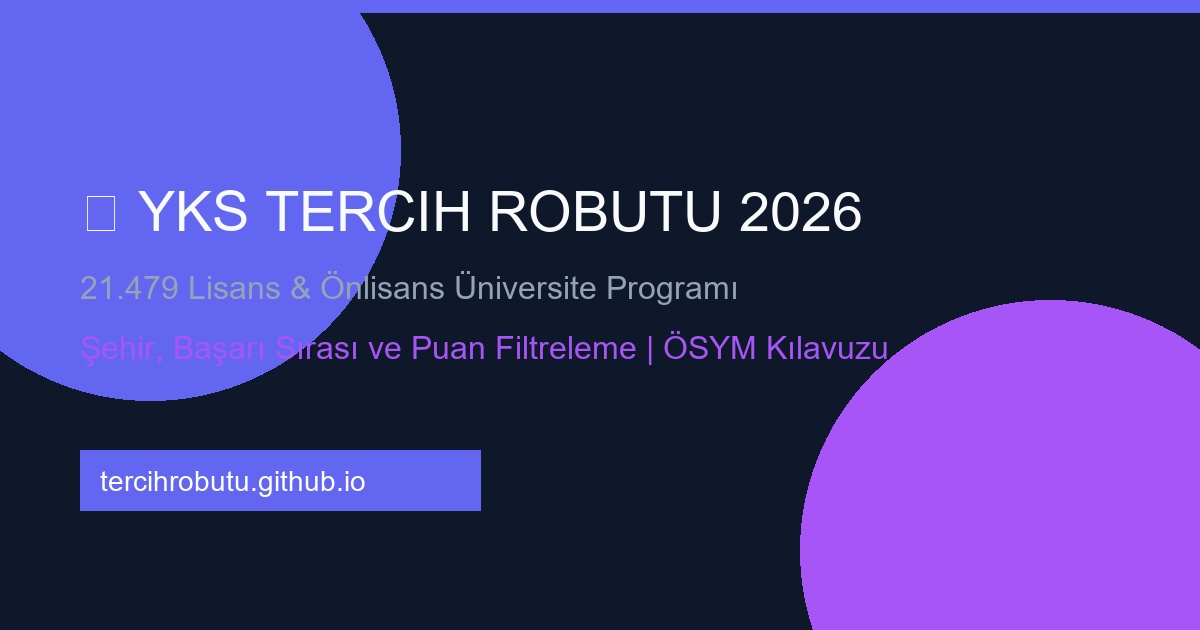
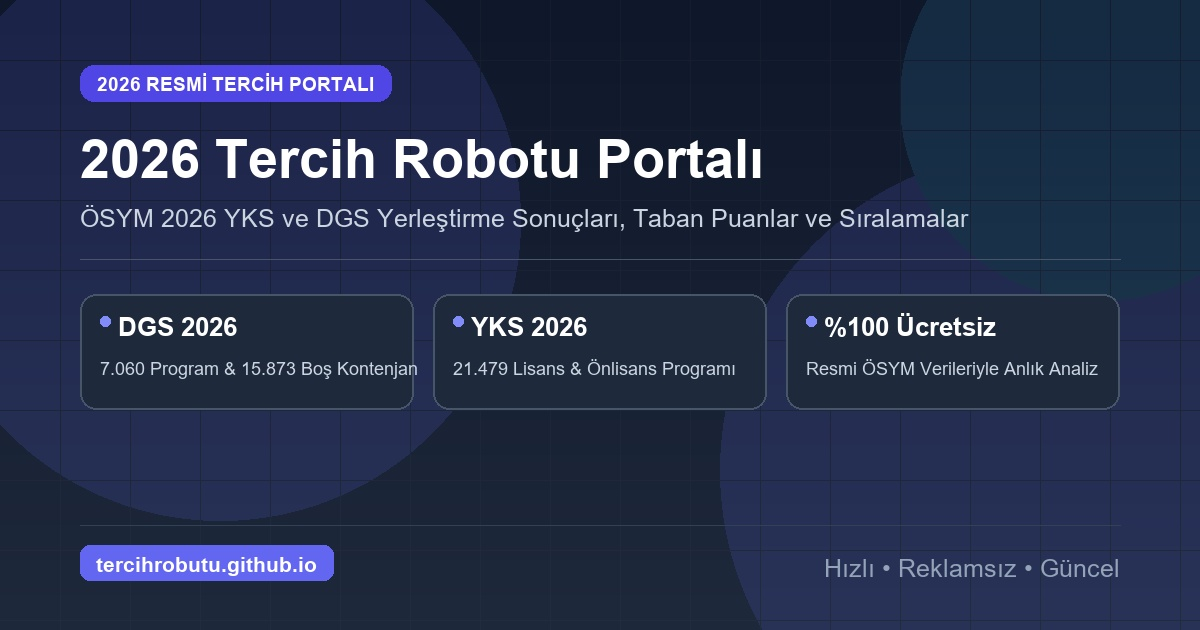
feat: Add dedicated high-res social preview cards for Portal, DGS, and YKS (og:image & twitter:image)

diff --git a/dgs.html b/dgs.html
@@ -34,7 +34,7 @@
   <meta property="og:url" content="https://tercihrobutu.github.io/dgs.html">
   <meta property="og:title" content="2026 DGS Tercih Robotu | ÖSYM Taban Puanları ve Kontenjan Değişimleri">
   <meta property="og:description" content="Ön Lisans mezuniyet alanınıza göre geçiş yapabileceğiniz tüm DGS Lisans programlarını, 2024-2025 taban puanlarını ve kontenjan değişim grafiklerini anında inceleyin.">
-  <meta property="og:image" content="https://tercihrobutu.github.io/og-image.jpg">
+  <meta property="og:image" content="https://tercihrobutu.github.io/og-image-dgs.jpg">
   <meta property="og:image:width" content="1200">
   <meta property="og:image:height" content="630">
   <meta property="og:locale" content="tr_TR">
@@ -44,7 +44,7 @@
   <meta name="twitter:url" content="https://tercihrobutu.github.io/dgs.html">
   <meta name="twitter:title" content="2026 DGS Tercih Robotu | ÖSYM DGS Kılavuzu & Trend Grafiği">
   <meta name="twitter:description" content="7.060 DGS lisans programı, 2024-2025 taban puanları ve kontenjan değişim grafikleri.">
-  <meta name="twitter:image" content="https://tercihrobutu.github.io/og-image.jpg">
+  <meta name="twitter:image" content="https://tercihrobutu.github.io/og-image-dgs.jpg">
 
   <!-- Google Fonts -->
   <link rel="preconnect" href="https://fonts.googleapis.com">

diff --git a/yks.html b/yks.html
@@ -34,7 +34,7 @@
   <meta property="og:url" content="https://tercihrobutu.github.io/yks.html">
   <meta property="og:title" content="2026 YKS Tercih Robotu | ÖSYM Taban Puanları ve Başarı Sıralamaları">
   <meta property="og:description" content="21.479 Lisans ve Ön Lisans programı arasında şehir, başarı sırası ve puan filtresi ile üniversite tercih listenizi anında hazırlayın.">
-  <meta property="og:image" content="https://tercihrobutu.github.io/og-image.jpg">
+  <meta property="og:image" content="https://tercihrobutu.github.io/og-image-yks.jpg">
   <meta property="og:image:width" content="1200">
   <meta property="og:image:height" content="630">
   <meta property="og:locale" content="tr_TR">
@@ -44,7 +44,7 @@
   <meta name="twitter:url" content="https://tercihrobutu.github.io/yks.html">
   <meta name="twitter:title" content="2026 YKS Tercih Robotu | ÖSYM Taban Puanları">
   <meta name="twitter:description" content="21.479 Lisans ve Ön Lisans üniversite programı. Şehir ve başarı sırasına göre filtrele, tercih listeni indir.">
-  <meta name="twitter:image" content="https://tercihrobutu.github.io/og-image.jpg">
+  <meta name="twitter:image" content="https://tercihrobutu.github.io/og-image-yks.jpg">
 
   <!-- Google Fonts -->
   <link rel="preconnect" href="https://fonts.googleapis.com">

diff --git a/scripts/generate_og_images.py b/scripts/generate_og_images.py
@@ -1,0 +1,217 @@
+import os
+from PIL import Image, ImageDraw, ImageFont
+
+def create_og_image(
+    filename,
+    badge_text,
+    badge_color,
+    title_text,
+    subtitle_text,
+    metrics,
+    footer_tagline,
+    theme="portal"
+):
+    W, H = 1200, 630
+    
+    # Color palette
+    if theme == "portal":
+        bg_top = (15, 23, 42)          # Slate 900
+        bg_bottom = (30, 41, 59)       # Slate 800
+        glow_primary = (99, 102, 241, 40)   # Indigo
+        glow_secondary = (56, 189, 248, 30) # Sky blue
+        accent_color = (99, 102, 241)       # Indigo 500
+        card_bg = (30, 41, 59)
+        card_border = (71, 85, 105)
+        tag_color = (129, 140, 248)
+    elif theme == "dgs":
+        bg_top = (20, 14, 40)          # Deep purple-black
+        bg_bottom = (42, 22, 75)       # Rich royal purple
+        glow_primary = (168, 85, 247, 45)   # Purple
+        glow_secondary = (236, 72, 153, 30) # Pink
+        accent_color = (168, 85, 247)       # Purple 500
+        card_bg = (43, 24, 80)
+        card_border = (126, 75, 185)
+        tag_color = (216, 180, 254)
+    else: # yks
+        bg_top = (10, 25, 47)          # Deep Navy
+        bg_bottom = (15, 45, 85)       # Oceanic Blue
+        glow_primary = (59, 130, 246, 45)   # Blue
+        glow_secondary = (45, 212, 191, 30) # Teal
+        accent_color = (37, 99, 235)        # Blue 600
+        card_bg = (22, 50, 92)
+        card_border = (59, 130, 246)
+        tag_color = (147, 197, 253)
+
+    # 1. Base Image & Gradient
+    img = Image.new("RGB", (W, H), bg_top)
+    draw = ImageDraw.Draw(img)
+
+    for y in range(H):
+        ratio = y / H
+        r = int(bg_top[0] + (bg_bottom[0] - bg_top[0]) * ratio)
+        g = int(bg_top[1] + (bg_bottom[1] - bg_top[1]) * ratio)
+        b = int(bg_top[2] + (bg_bottom[2] - bg_top[2]) * ratio)
+        draw.line([(0, y), (W, y)], fill=(r, g, b))
+
+    # 2. Glowing atmospheric effects
+    overlay = Image.new("RGBA", (W, H), (0, 0, 0, 0))
+    ov_draw = ImageDraw.Draw(overlay)
+
+    ov_draw.ellipse([(-80, -80), (520, 520)], fill=glow_primary)
+    ov_draw.ellipse([(W - 480, H - 480), (W + 160, H + 160)], fill=glow_primary)
+    ov_draw.ellipse([(W - 300, -100), (W + 100, 300)], fill=glow_secondary)
+
+    # Grid texture
+    grid_color = (255, 255, 255, 5)
+    for x in range(60, W, 70):
+        ov_draw.line([(x, 0), (x, H)], fill=grid_color, width=1)
+    for y in range(60, H, 70):
+        ov_draw.line([(0, y), (W, y)], fill=grid_color, width=1)
+
+    img = Image.alpha_composite(img.convert("RGBA"), overlay).convert("RGB")
+    draw = ImageDraw.Draw(img)
+
+    # Fonts (Using Arial Bold for bulletproof Turkish character rendering)
+    font_bold_path = "C:/Windows/Fonts/arialbd.ttf"
+    font_reg_path = "C:/Windows/Fonts/arial.ttf"
+
+    title_font = ImageFont.truetype(font_bold_path, 54)
+    subtitle_font = ImageFont.truetype(font_reg_path, 25)
+    badge_font = ImageFont.truetype(font_bold_path, 19)
+    metric_val_font = ImageFont.truetype(font_bold_path, 26)
+    metric_lbl_font = ImageFont.truetype(font_reg_path, 18)
+    footer_font = ImageFont.truetype(font_bold_path, 21)
+
+    margin_left = 80
+    cursor_y = 65
+
+    # 3. Badge Pill
+    badge_bbox = badge_font.getbbox(badge_text)
+    bw = badge_bbox[2] - badge_bbox[0] + 34
+    bh = badge_bbox[3] - badge_bbox[1] + 18
+    draw.rounded_rectangle(
+        [margin_left, cursor_y, margin_left + bw, cursor_y + bh],
+        radius=14,
+        fill=badge_color
+    )
+    draw.text(
+        (margin_left + 17, cursor_y + 8),
+        badge_text,
+        font=badge_font,
+        fill=(255, 255, 255)
+    )
+
+    cursor_y += bh + 28
+
+    # 4. Main Title
+    draw.text((margin_left, cursor_y), title_text, font=title_font, fill=(255, 255, 255))
+    cursor_y += 75
+
+    # 5. Subtitle
+    draw.text((margin_left, cursor_y), subtitle_text, font=subtitle_font, fill=(203, 213, 225))
+    cursor_y += 55
+
+    # 6. Horizontal separator
+    draw.line([(margin_left, cursor_y), (W - margin_left, cursor_y)], fill=(71, 85, 105), width=1)
+    cursor_y += 35
+
+    # 7. Metrics Cards (Horizontal row)
+    card_width = (W - 2 * margin_left - (len(metrics) - 1) * 20) // len(metrics)
+    card_height = 115
+
+    for i, (m_val, m_lbl) in enumerate(metrics):
+        cx = margin_left + i * (card_width + 20)
+        cy = cursor_y
+
+        # Main rounded card
+        draw.rounded_rectangle(
+            [cx, cy, cx + card_width, cy + card_height],
+            radius=16,
+            fill=card_bg,
+            outline=card_border,
+            width=2
+        )
+
+        # Subtle colored indicator dot
+        draw.ellipse([cx + 20, cy + 22, cx + 30, cy + 32], fill=tag_color)
+
+        # Metric Value
+        draw.text((cx + 38, cy + 18), m_val, font=metric_val_font, fill=(255, 255, 255))
+        # Metric Label
+        draw.text((cx + 20, cy + 64), m_lbl, font=metric_lbl_font, fill=(203, 213, 225))
+
+    # 8. Bottom Bar
+    footer_y = H - 85
+    draw.line([(margin_left, footer_y - 20), (W - margin_left, footer_y - 20)], fill=(51, 65, 85), width=1)
+
+    # Domain pill button
+    domain_text = "tercihrobutu.github.io"
+    d_bbox = footer_font.getbbox(domain_text)
+    dw = d_bbox[2] - d_bbox[0] + 32
+    dh = d_bbox[3] - d_bbox[1] + 16
+
+    draw.rounded_rectangle(
+        [margin_left, footer_y, margin_left + dw, footer_y + dh],
+        radius=10,
+        fill=accent_color
+    )
+    draw.text((margin_left + 16, footer_y + 7), domain_text, font=footer_font, fill=(255, 255, 255))
+
+    # Right footer text
+    rf_bbox = subtitle_font.getbbox(footer_tagline)
+    rf_w = rf_bbox[2] - rf_bbox[0]
+    draw.text((W - margin_left - rf_w, footer_y + 9), footer_tagline, font=subtitle_font, fill=(148, 163, 184))
+
+    # Save
+    output_path = os.path.join(r"C:\Users\yakupcontarli\Documents\GitHub\tercihrobutu.github.io", filename)
+    img.save(output_path, "JPEG", quality=95, optimize=True)
+    print(f"Successfully generated: {output_path}")
+
+if __name__ == "__main__":
+    # 1. Genel Portal (index.html) -> og-image.jpg
+    create_og_image(
+        filename="og-image.jpg",
+        badge_text="2026 RESMİ TERCİH PORTALI",
+        badge_color=(79, 70, 229), # Indigo 600
+        title_text="2026 Tercih Robotu Portalı",
+        subtitle_text="ÖSYM 2026 YKS ve DGS Yerleştirme Sonuçları, Taban Puanlar ve Sıralamalar",
+        metrics=[
+            ("DGS 2026", "7.060 Program & 15.873 Boş Kontenjan"),
+            ("YKS 2026", "21.479 Lisans & Önlisans Programı"),
+            ("%100 Ücretsiz", "Resmi ÖSYM Verileriyle Anlık Analiz"),
+        ],
+        footer_tagline="Hızlı • Reklamsız • Güncel",
+        theme="portal"
+    )
+
+    # 2. DGS Robotu (dgs.html) -> og-image-dgs.jpg
+    create_og_image(
+        filename="og-image-dgs.jpg",
+        badge_text="2026 DGS YERLEŞTİRME SONUÇLARI",
+        badge_color=(147, 51, 234), # Purple 600
+        title_text="2026 DGS Tercih Robotu",
+        subtitle_text="Resmi Yerleştirme Taban Puanları, Boş Kontenjanlar ve Önlisans Geçiş Tablosu",
+        metrics=[
+            ("7.060 Program", "Tüm Üniversiteler & Bölümler"),
+            ("15.873 Boş Kontenjan", "Ek Tercih Öncesi Güncel Durum"),
+            ("856 Bölüm Eşleşmesi", "Tablo-2 Lisans Geçiş Alanları"),
+        ],
+        footer_tagline="Sayısal • Eşit Ağırlık • Sözel",
+        theme="dgs"
+    )
+
+    # 3. YKS Robotu (yks.html) -> og-image-yks.jpg
+    create_og_image(
+        filename="og-image-yks.jpg",
+        badge_text="2026 YKS YERLEŞTİRME SONUÇLARI",
+        badge_color=(37, 99, 235), # Blue 600
+        title_text="2026 YKS Tercih Robotu",
+        subtitle_text="Lisans ve Önlisans Taban Puanları, Sıralamalar ve 4 Yıllık Başarı Grafikleri",
+        metrics=[
+            ("21.479 Program", "Devlet, Vakıf ve KKTC Üniversiteleri"),
+            ("Lisans & Önlisans", "SAY, EA, SÖZ, DİL ve TYT"),
+            ("4 Yıllık Trend", "Net, Puan ve Sıralama İstatistikleri"),
+        ],
+        footer_tagline="Üniversite Tercih & Sıralama Rehberi",
+        theme="yks"
+    )
